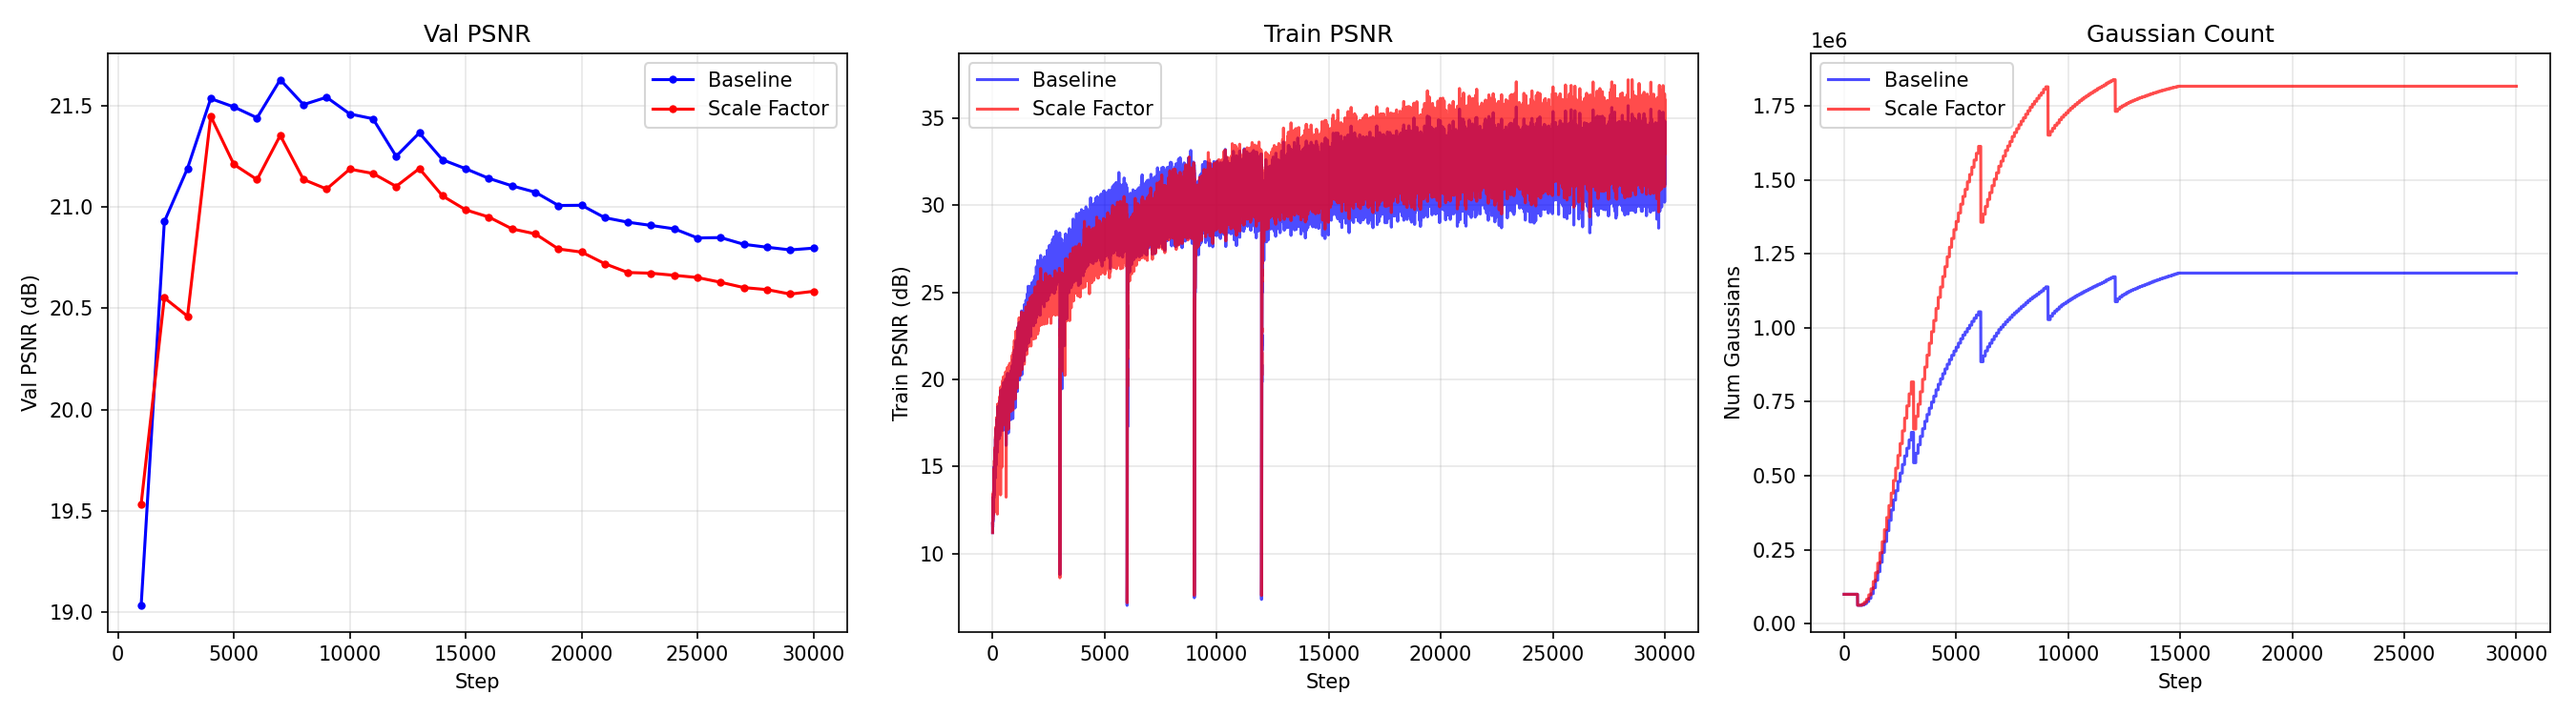
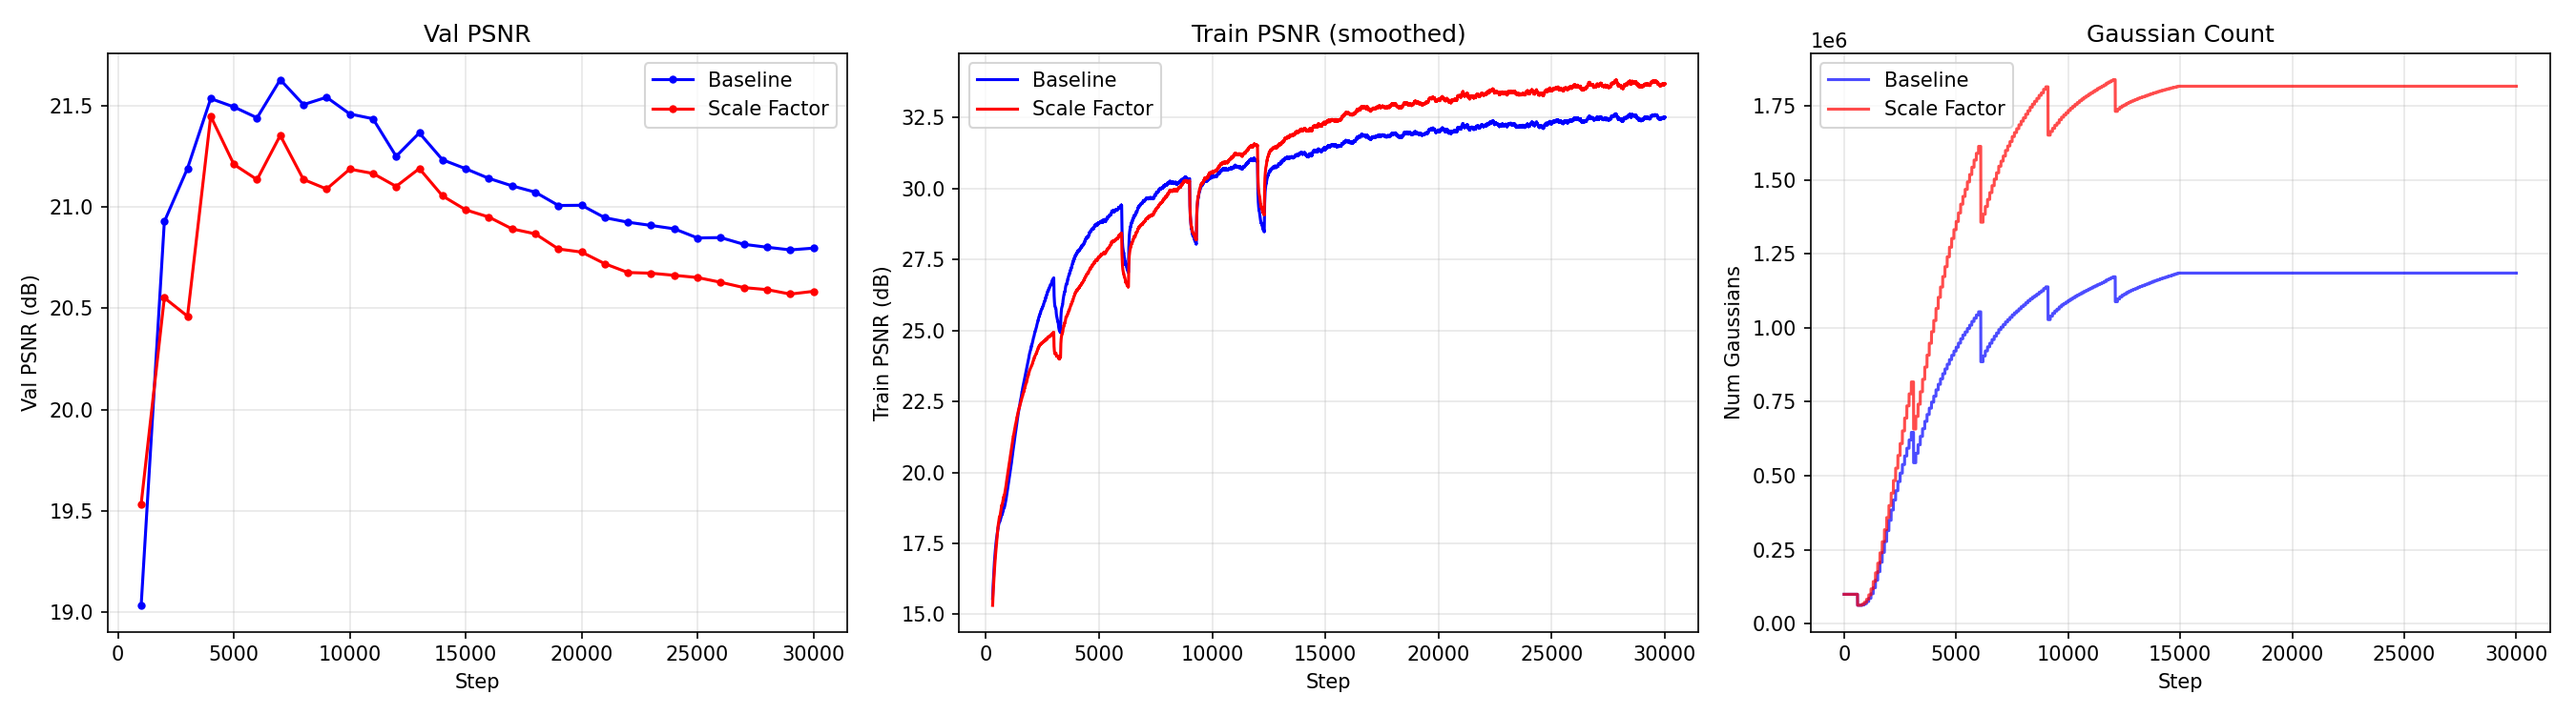
Add both test renders, use smoothed train PSNR in comparison plot

diff --git a/EXPERIMENTS.md b/EXPERIMENTS.md
@@ -21,9 +21,11 @@
 - Peaks at step 7k (21.63 dB), then slowly degrades to 20.80 dB by 30k — overfitting to training views
 - Densification stops at step 15k (default `refine_stop_iter`), Gaussian count stabilizes at ~1.18M
 
-**Test render (step 30k):**
+**Test renders (step 30k):**
 
-![](assets/outputs/exp1_baseline/renders/render_0001_step30000.png)
+| Test view 0 | Test view 1 |
+|-------------|-------------|
+| ![](assets/outputs/exp1_baseline/renders/render_0000_step30000.png) | ![](assets/outputs/exp1_baseline/renders/render_0001_step30000.png) |
 
 **Val render (image 4, step 30k):**
 
@@ -61,9 +63,11 @@
 
 ![](assets/outputs/exp2_scale_factor/comparison.png)
 
-**Test render (step 30k):**
+**Test renders (step 30k):**
 
-![](assets/outputs/exp2_scale_factor/renders/render_0001_step30000.png)
+| Test view 0 | Test view 1 |
+|-------------|-------------|
+| ![](assets/outputs/exp2_scale_factor/renders/render_0000_step30000.png) | ![](assets/outputs/exp2_scale_factor/renders/render_0001_step30000.png) |
 
 **Val render (image 4, step 30k):**
 
